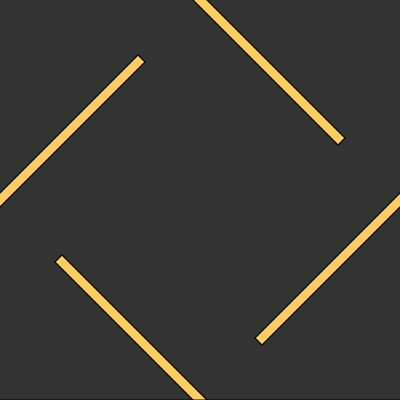
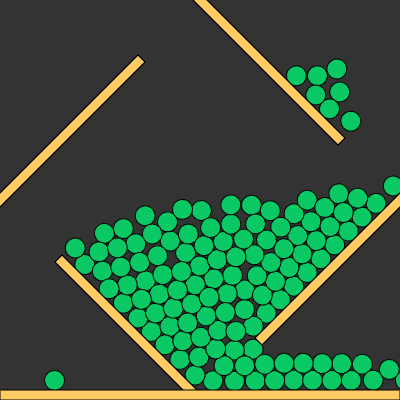
qưeg

Changed region(s): [[0.0, 0.42, 1.0, 1.0], [0.72, 0.15, 0.9, 0.33]]

diff --git a/GameVinh2/sketch.js b/GameVinh2/sketch.js
@@ -5,7 +5,7 @@ var Engine = Matter.Engine,
 var engine;
 var world;
 var box1,
-  boxes = [];
+  circles = [];
 let GROUND;
 let GROUNDS = [];
 function setup() {
@@ -23,21 +23,26 @@ function setup() {
   };
   GROUNDS.push(new Ground(200, height, width, 10, PI / 4));
   GROUNDS.push(new Ground(200, 0, width, 10, PI / 4));
-  GROUNDS.push(new Ground(0, 200, 10, height, PI / 4));
+  GROUNDS.push(new Ground(0, 100, 10, height, PI / 1.5));
   GROUNDS.push(new Ground(height, 200, 10, height, PI / 4));
   GROUNDS.push(new Ground(width / 2, height, width, 20, PI));
   rectMode(CENTER);
 }
 
 function mousePressed() {
-  boxes.push(new Box(mouseX, mouseY, 20, 20));
-  console.log(boxes);
+  let RadomColor1 = Math.floor(Math.random() * 200);
+  let RadomColor2 = Math.floor(Math.random() * 200);
+  let RadomColor3 = Math.floor(Math.random() * 200);
+  circles.push(
+    new Circle(mouseX, mouseY, 13, [RadomColor1, RadomColor2, RadomColor3])
+  );
+  console.log(circles);
 }
 
 function draw() {
   background(51);
-  for (let i = 0; i < boxes.length; i++) {
-    boxes[i].show();
+  for (let i = 0; i < circles.length; i++) {
+    circles[i].show();
   }
 
   for (let i = 0; i < GROUNDS.length; i++) {

diff --git a/GameVinh2/Circle.js b/GameVinh2/Circle.js
@@ -1,13 +1,11 @@
-function Box(x, y, w, h) {
+function Circle(x, y, r, RadomColor) {
   let options = {
     friction: 0.2,
     restitution: 0.8,
   };
-  this.body = Bodies.rectangle(x, y, w, h, options);
-  this.w = w;
-  this.h = h;
+  this.body = Bodies.circle(x, y, r, options);
   World.add(world, this.body);
-
+  this.isOffScreen = function () {};
   fill(10, 200, 100);
   line(0, height, width, height);
   this.show = function () {
@@ -16,8 +14,10 @@ function Box(x, y, w, h) {
     push();
     translate(pos.x, pos.y);
     rotate(angle);
-    rectMode(CENTER);
-    rect(0, 0, this.w, this.h);
+    fill(RadomColor[0], RadomColor[1], RadomColor[2]);
+    //rectMode(CENTER);
+    ellipse(0, 0, r * 2);
+    //rect(0, 0, this.w, this.h);
 
     pop();
   };

diff --git a/GameVinh2/index.html b/GameVinh2/index.html
@@ -5,7 +5,7 @@
     <link rel="icon" href="hello.png" type="image/gif" sizes="16x16" />
     <script src="./Library/matter.js"></script>
     <script src="./Library/p5.js"></script>
-    <script src="./Box.js"></script>
+    <script src="./Circle.js"></script>
     <script src="./Ground.js"></script>
     <script src="./sketch.js"></script>
 
